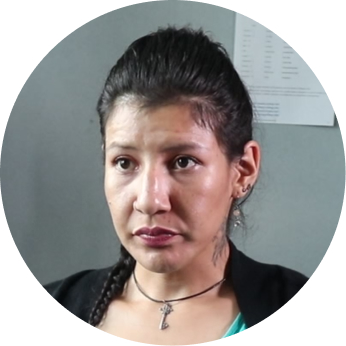
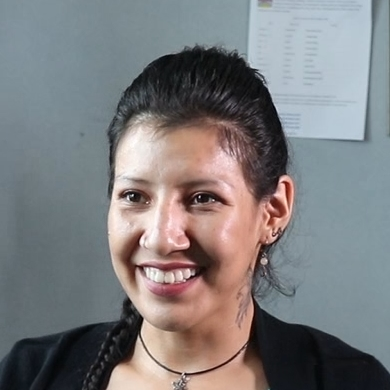
Updated profile images

diff --git a/content/tour/speakers/guy.md b/content/tour/speakers/guy.md
@@ -2,7 +2,7 @@
 name: Guy
 type: peer
 video: 'wahrs/tracey-interview-test.mp4'
-profile: 'wahrs/tracey.jpg'
+profile: 'guy/profile.jpg'
 background: 'guy/background.jpg'
 bio: Short biography about Tracey, maybe how she is related to this location?
 location: The Alley
